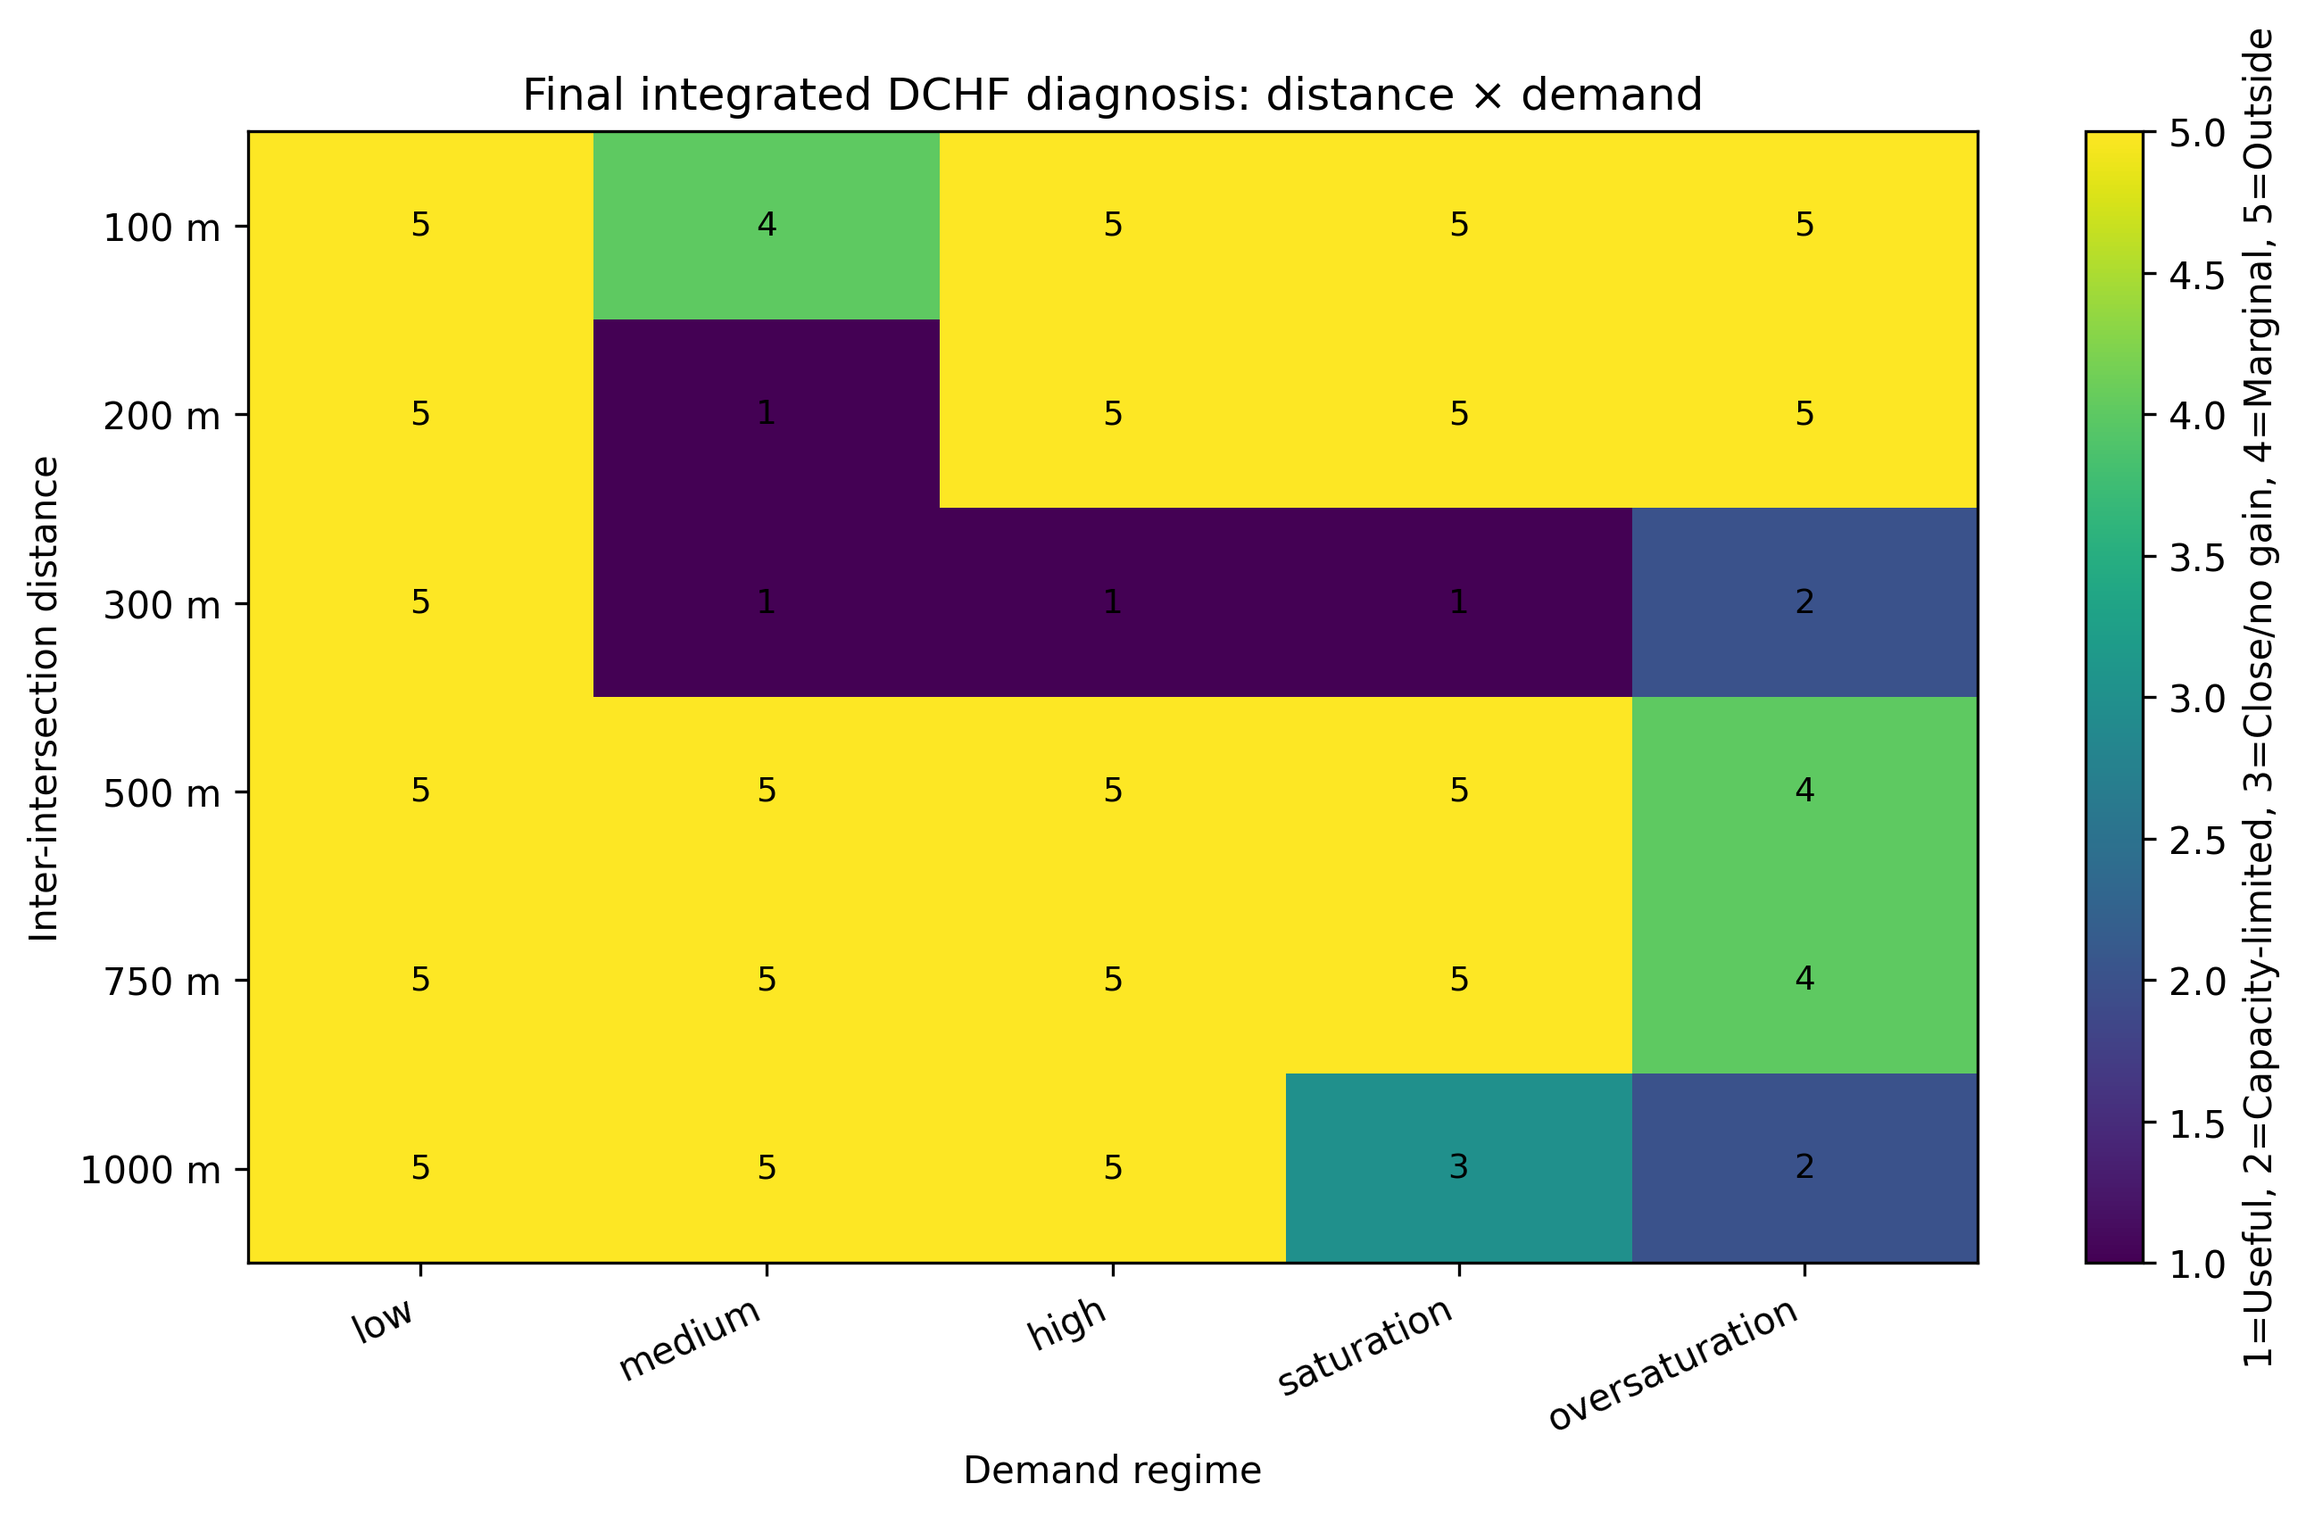
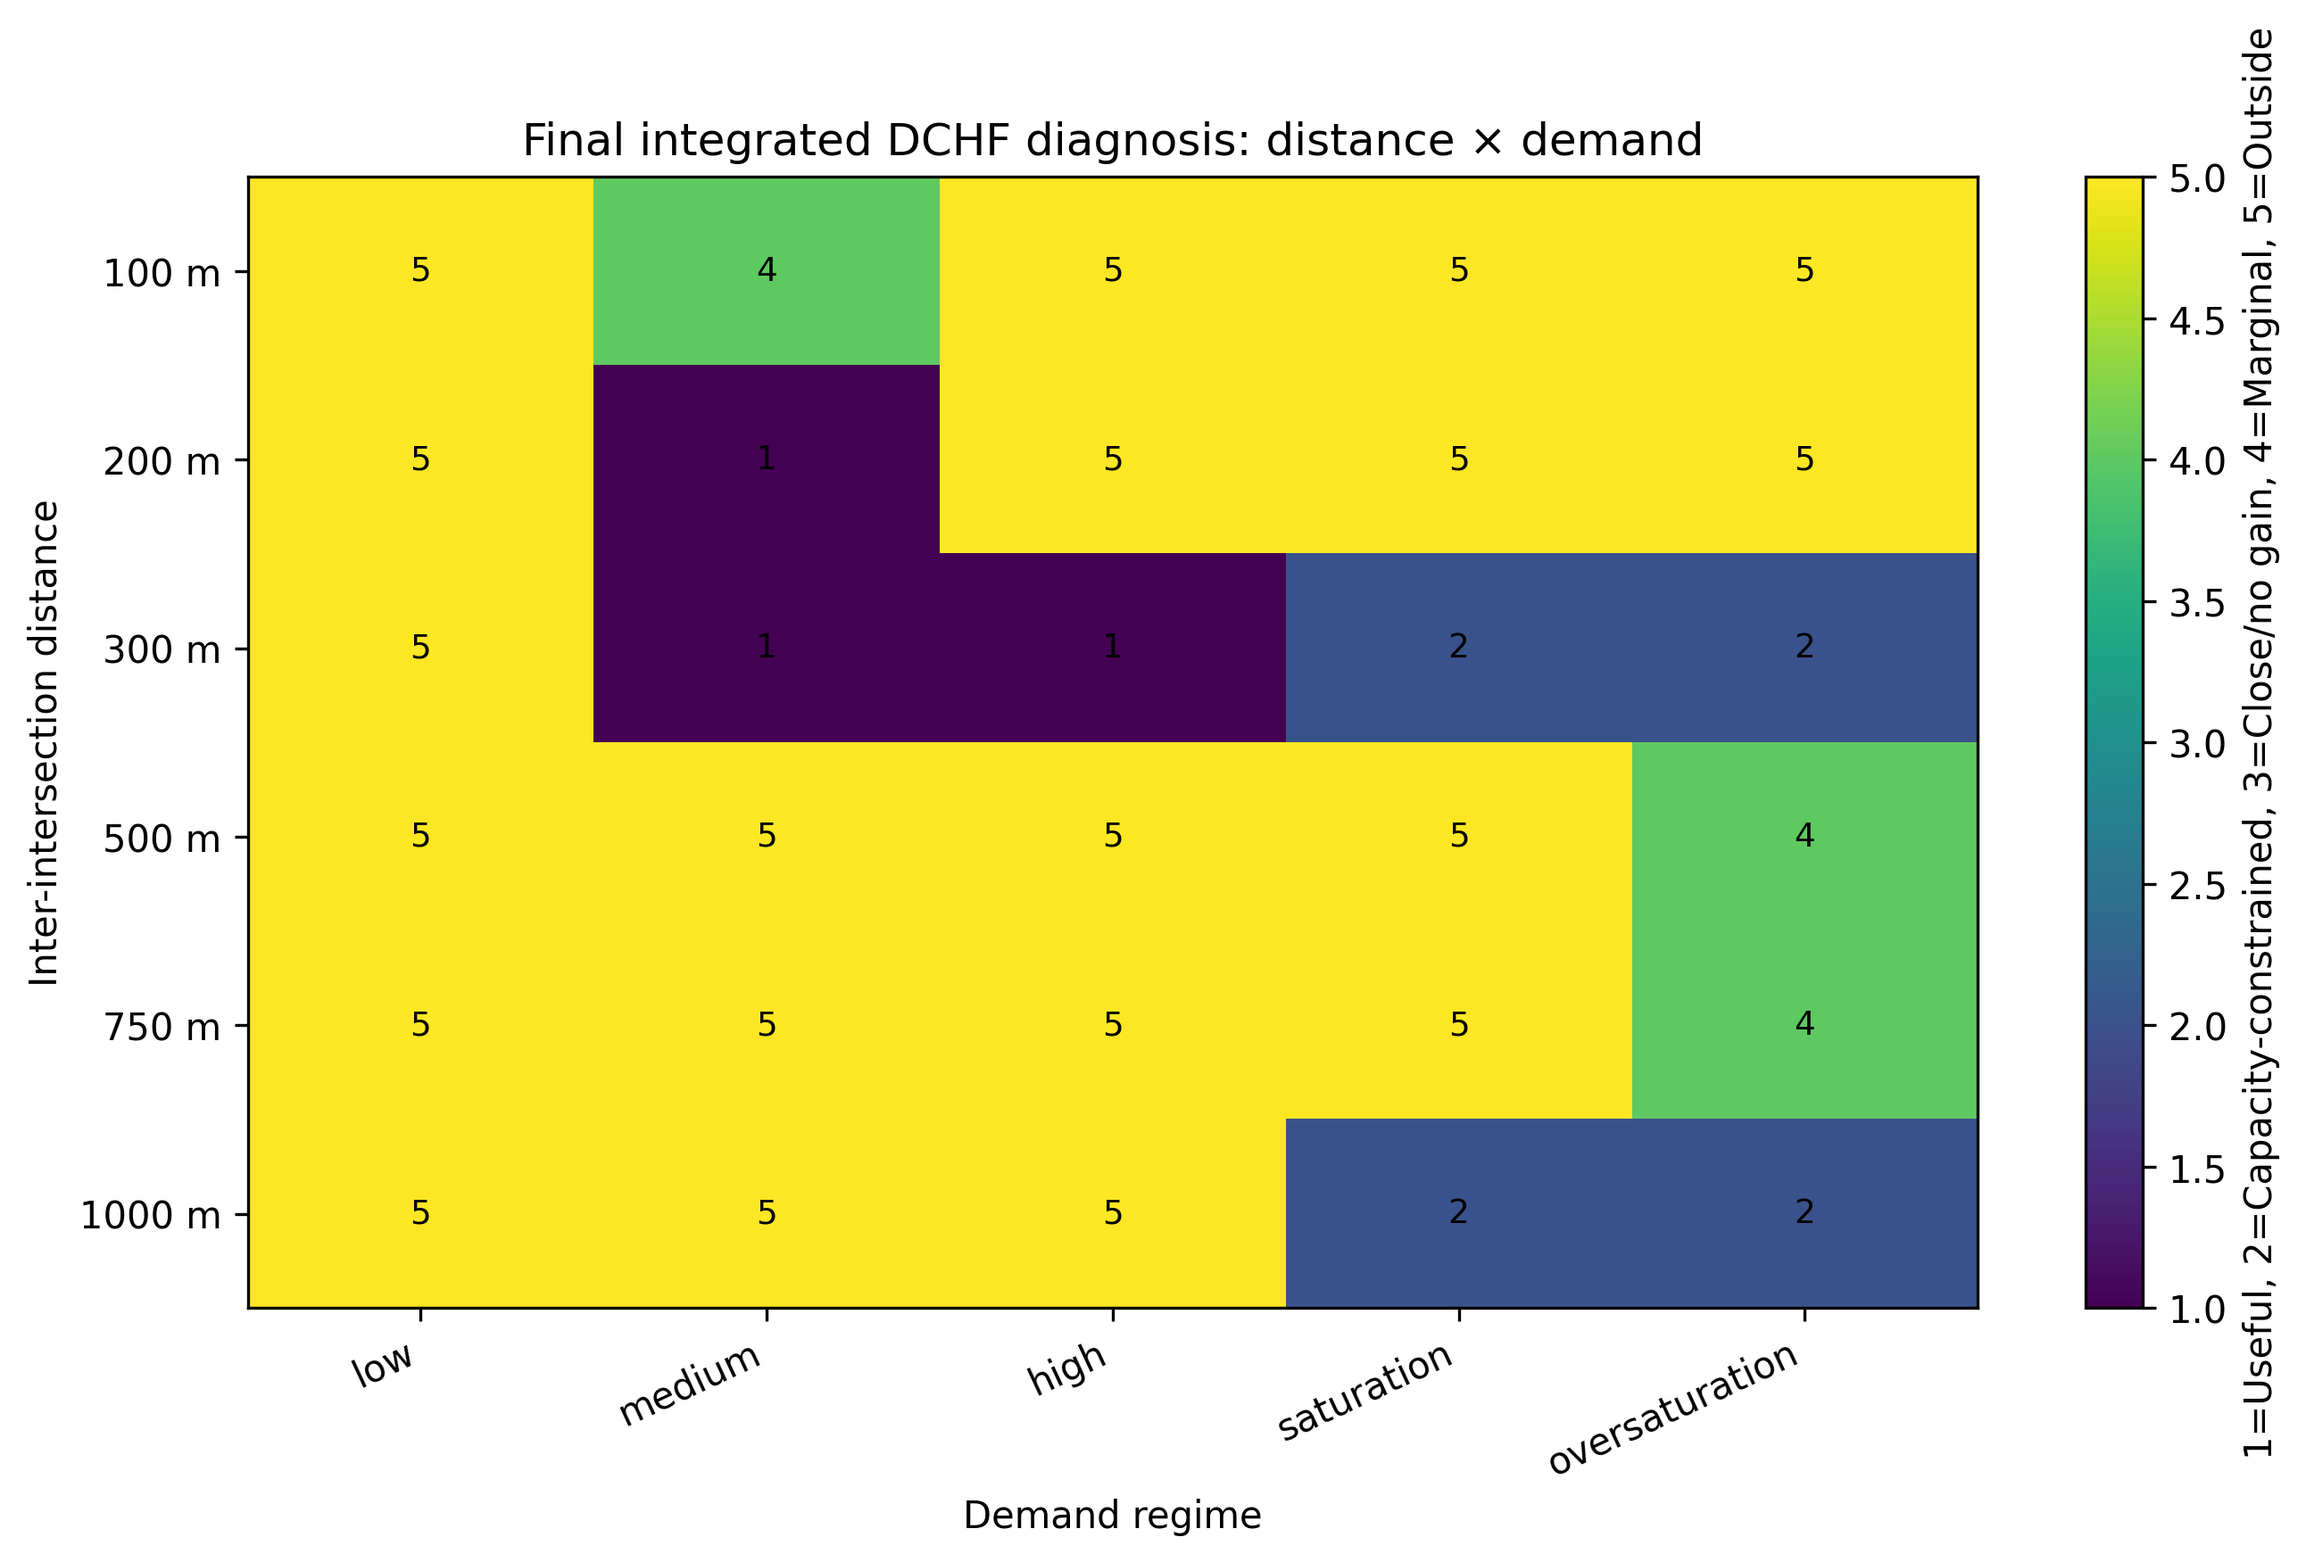
Fix integrated DCHF capacity precedence (0.10 threshold); class 3 explicit zero; counts 3/4/0/3/20

diff --git a/src/analysis/plot_final_integrated_dchf_distance_demand.py b/src/analysis/plot_final_integrated_dchf_distance_demand.py
@@ -24,16 +24,17 @@ def classify_integrated(row):
     cg = row["qmix_coordination_gain_percent"]
     br = row["qmix_buffered_ratio"]
 
-    if pd.isna(gap):
+    if pd.isna(gap) or pd.isna(cg) or pd.isna(br):
         return np.nan, "Not available"
 
-    if gap <= 5 and cg > 0 and br < 0.25:
+    # Capacity status takes precedence within approximation-effective cells.
+    if gap <= 5 and br >= 0.10:
+        return 2, "Algorithmically effective but capacity-constrained"
+
+    if gap <= 5 and cg > 0 and br < 0.10:
         return 1, "Useful effective coordination"
 
-    if gap <= 5 and br >= 0.25:
-        return 2, "Algorithmically effective but capacity-limited"
-
-    if gap <= 5 and cg <= 0 and br < 0.25:
+    if gap <= 5 and cg <= 0 and br < 0.10:
         return 3, "Algorithmically close but no practical gain"
 
     if gap <= 10:
@@ -56,13 +57,48 @@ def main():
     df["final_integrated_dchf_code"] = codes
     df["final_integrated_dchf_label"] = labels
 
+    expected_counts = {1: 3, 2: 4, 3: 0, 4: 3, 5: 20}
+
+    actual_counts = (
+        df["final_integrated_dchf_code"]
+        .value_counts()
+        .reindex([1, 2, 3, 4, 5], fill_value=0)
+        .astype(int)
+        .to_dict()
+    )
+
+    assert actual_counts == expected_counts, (
+        f"Unexpected integrated DCHF counts: {actual_counts}"
+    )
+
     df.to_csv(OUT_CLASSES, index=False)
 
-    counts = (
-        df.groupby(["final_integrated_dchf_code", "final_integrated_dchf_label"])
-        .size()
-        .reset_index(name="number_of_cases")
-        .sort_values("final_integrated_dchf_code")
+    class_labels = {
+        1: "Useful effective coordination",
+        2: "Algorithmically effective but capacity-constrained",
+        3: "Algorithmically close but no practical gain",
+        4: "Marginal coordination",
+        5: "Outside coordination horizon",
+    }
+
+    counts = pd.DataFrame(
+        {
+            "final_integrated_dchf_code": [1, 2, 3, 4, 5],
+            "final_integrated_dchf_label": [
+                class_labels[1],
+                class_labels[2],
+                class_labels[3],
+                class_labels[4],
+                class_labels[5],
+            ],
+            "number_of_cases": [
+                actual_counts[1],
+                actual_counts[2],
+                actual_counts[3],
+                actual_counts[4],
+                actual_counts[5],
+            ],
+        }
     )
 
     counts.to_csv(OUT_COUNTS, index=False)
@@ -88,7 +124,7 @@ def main():
 
     cbar = plt.colorbar(im)
     cbar.set_label(
-        "1=Useful, 2=Capacity-limited, 3=Close/no gain, 4=Marginal, 5=Outside"
+        "1=Useful, 2=Capacity-constrained, 3=Close/no gain, 4=Marginal, 5=Outside"
     )
 
     for i in range(matrix.shape[0]):
